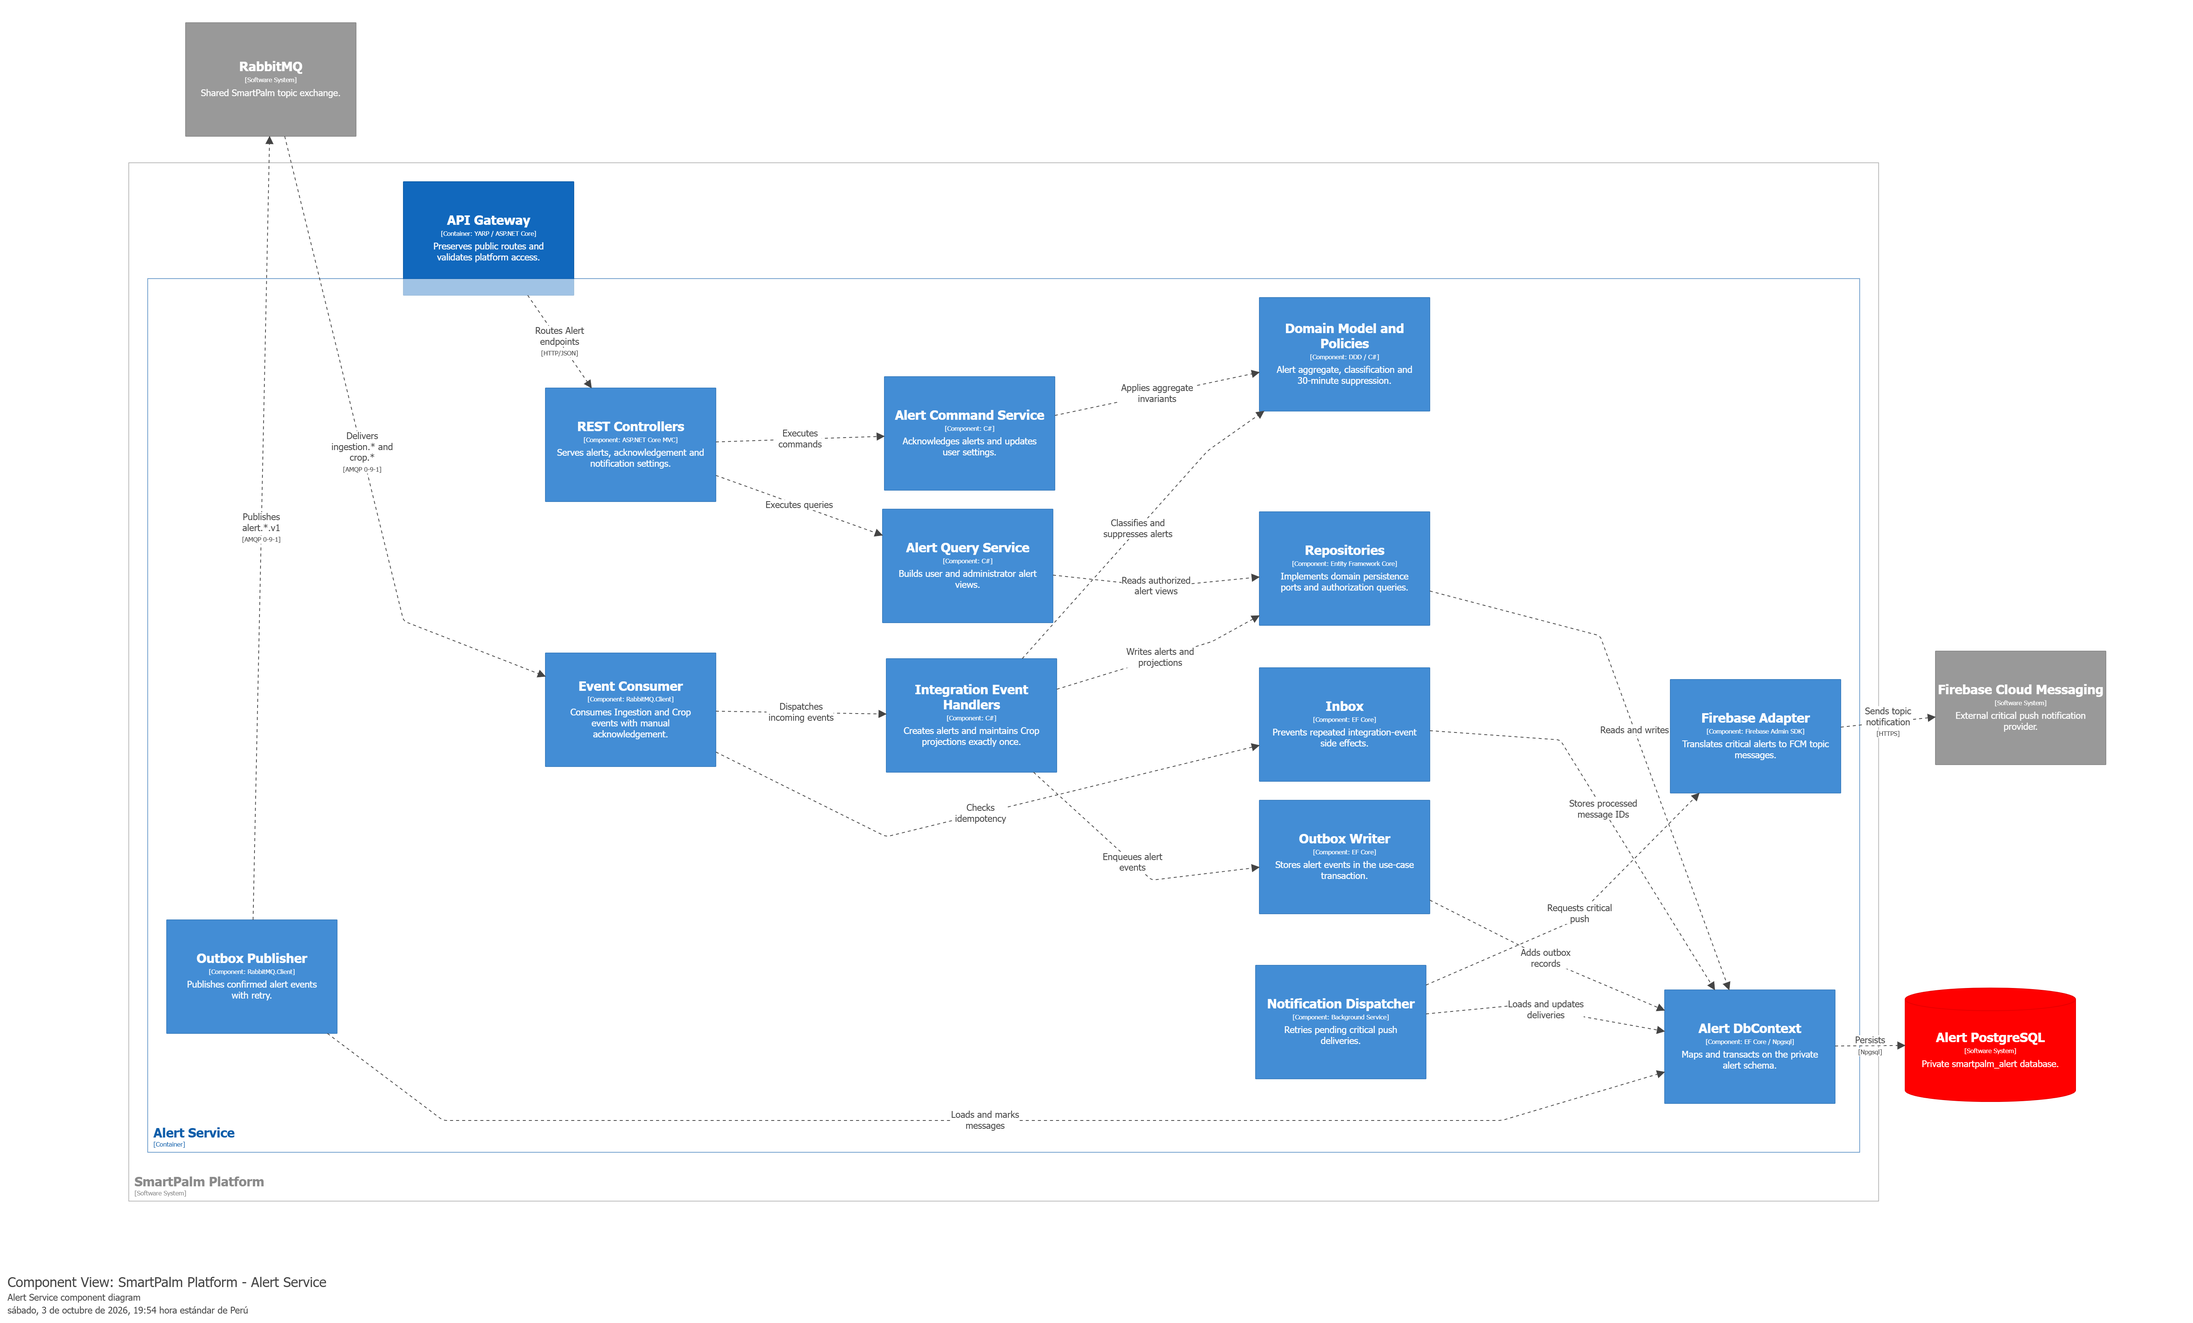
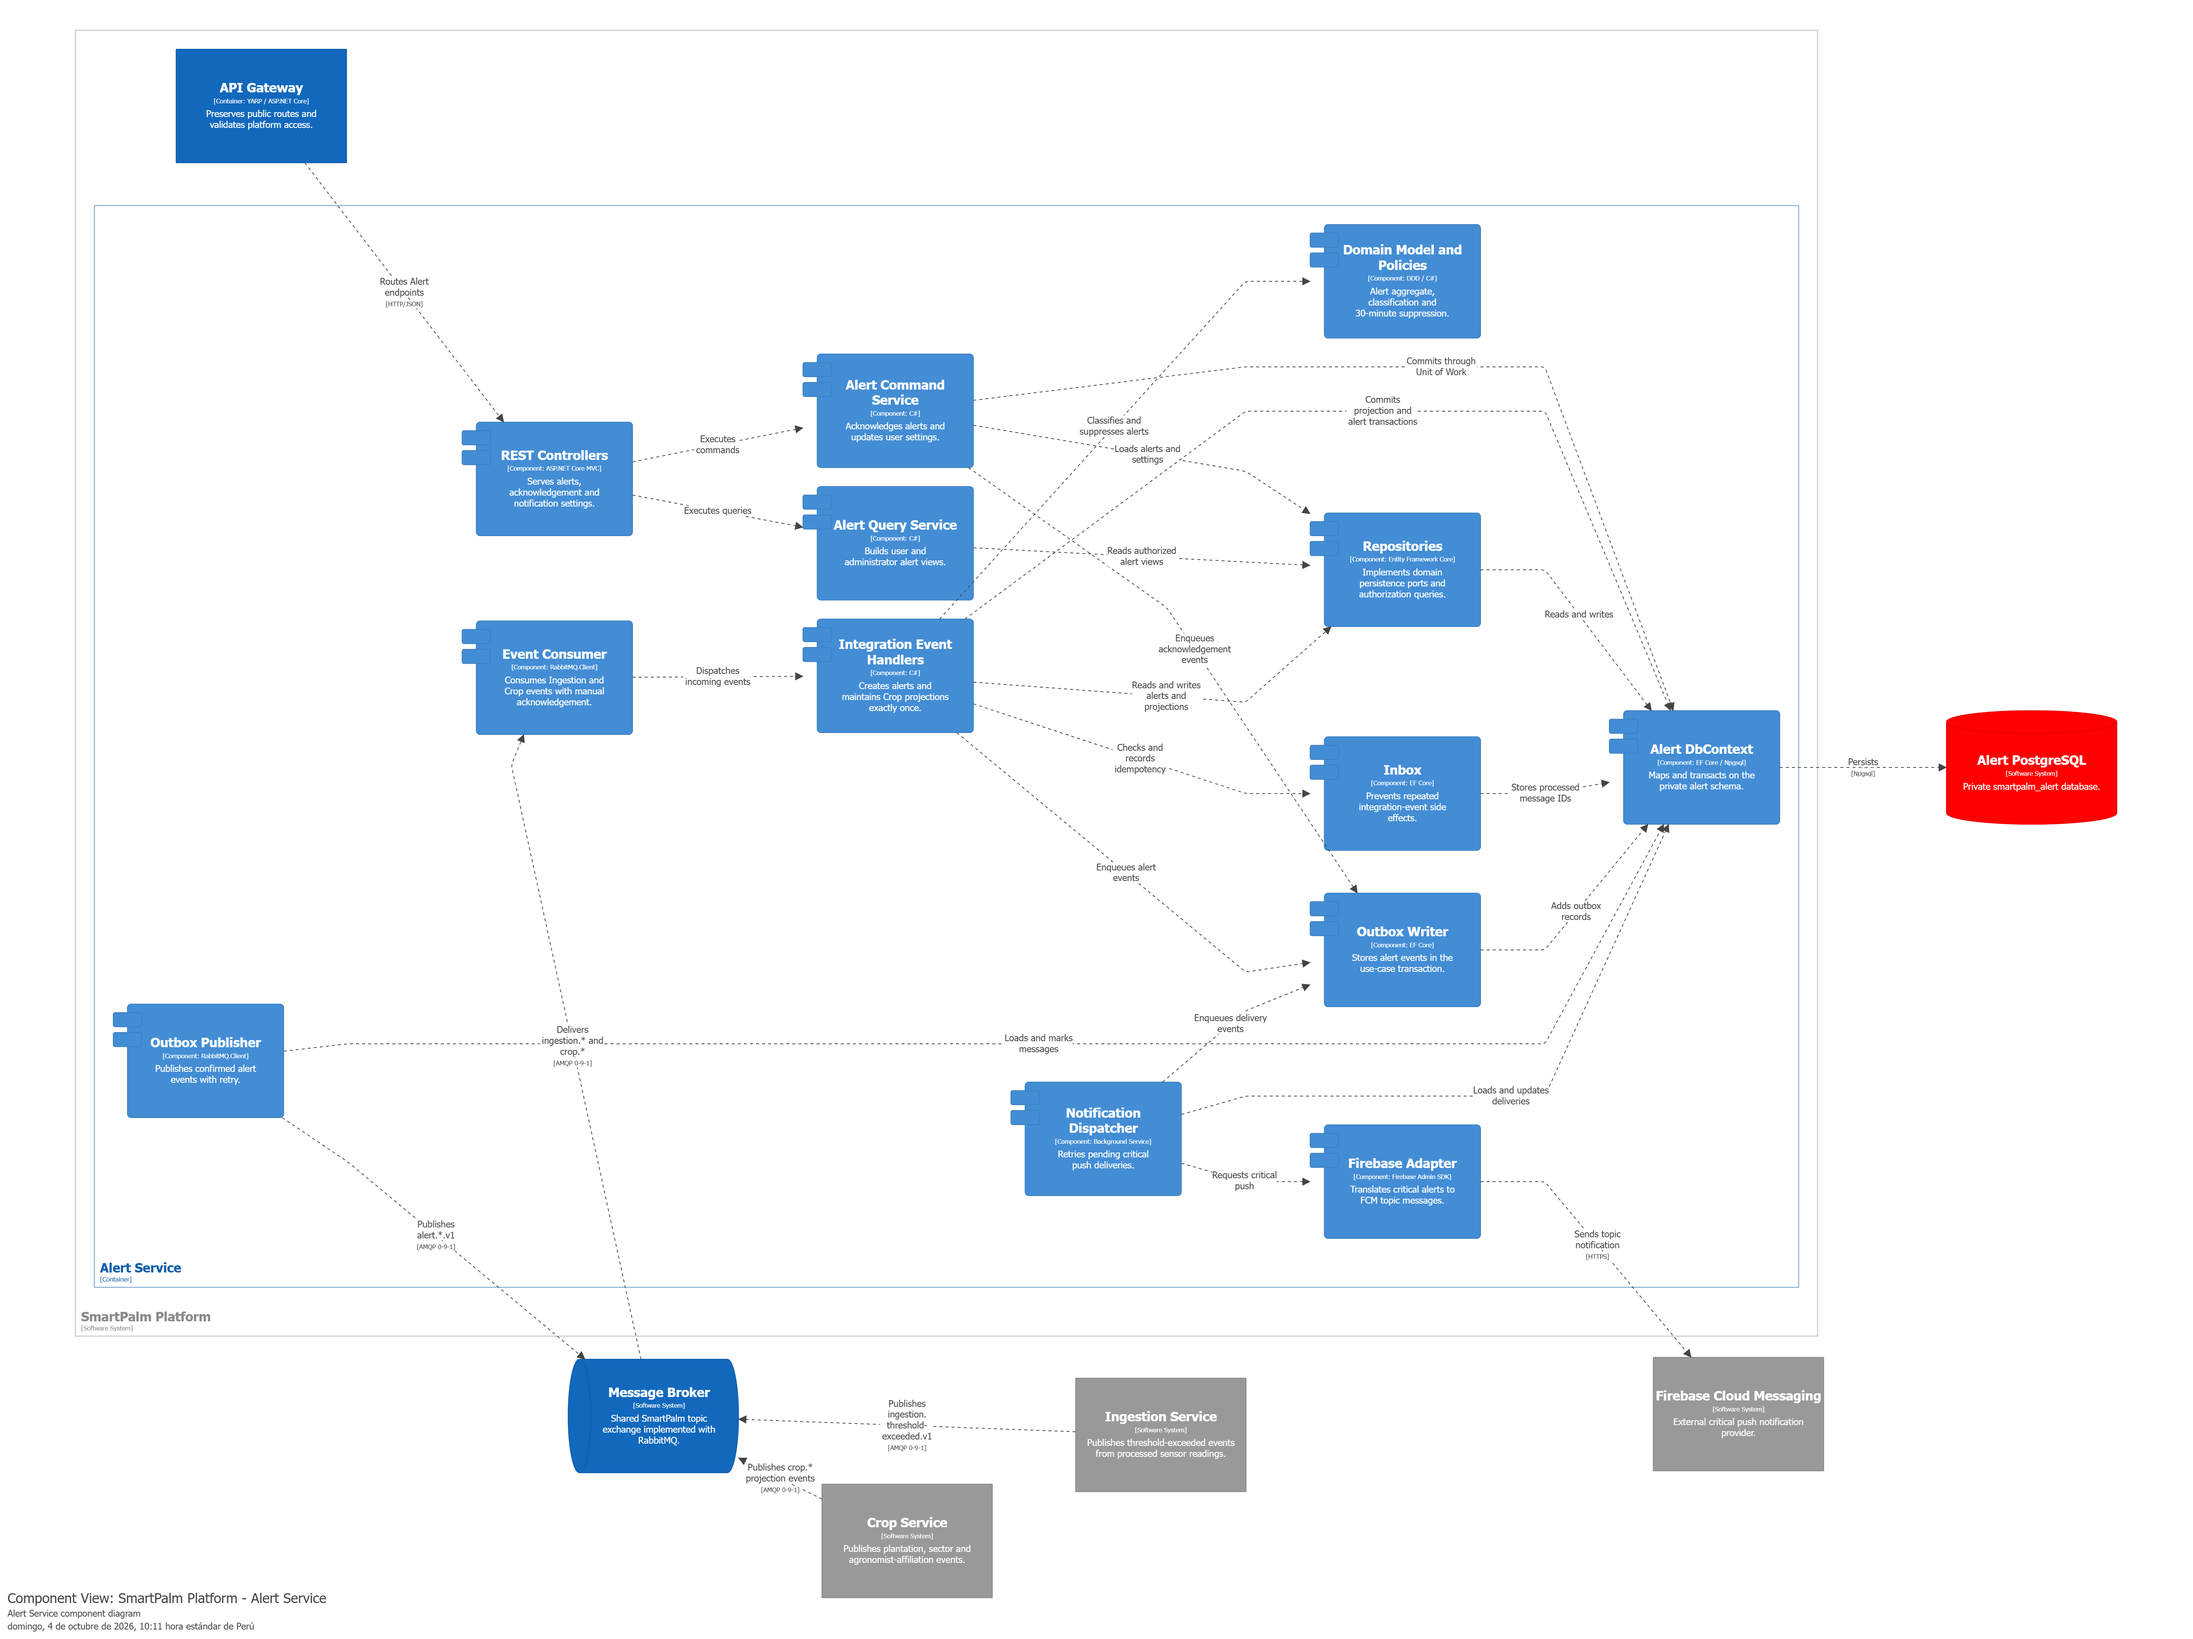
docs(53): add component diagram

diff --git a/50-chapter-5-tactical-software-design/53-5-bounded-context-alert-notification.md b/50-chapter-5-tactical-software-design/53-5-bounded-context-alert-notification.md
@@ -1,13 +1,24 @@
-
 ## 5.3.5. Bounded Context Software Architecture Component Level Diagrams
 
-![bounded-context-alert-notification-components-diagram](../assets/chapter5/53-bc-alert-notification/AlertServiceComponents.png) descompone Gateway, controllers, command/query services, handlers, políticas de dominio, repositorios, Inbox/Outbox, dispatcher, PostgreSQL, RabbitMQ y Firebase. El DSL muestra que Firebase es una dependencia externa y que el flujo entrante principal proviene de Ingestion.
+Aqui se presenta el diagrama C4 de componentes del container AlertService. Se lee de izquierda a derecha: el API Gateway enruta solicitudes HTTP hacia los controllers; estos delegan mutaciones a `AlertCommandService` y lecturas a `AlertQueryService`. Los comandos consultan repositorios, confirman cambios mediante `AlertDbContext` como Unit of Work y escriben eventos de reconocimiento en Outbox.
+
+En paralelo, IngestionService y CropService publican sus eventos hacia el **Message Broker** implementado con RabbitMQ. `IntegrationEventConsumer` los entrega a `IntegrationEventHandlers`, que ejecuta la comprobación Inbox dentro de su transacción, aplica las políticas de clasificación y duplicidad, mantiene proyecciones y encola eventos salientes. `OutboxPublisher` publica eventos `alert.*.v1`; `NotificationDispatcher` recupera entregas pendientes, registra sus cambios y solicita el envío al adaptador Firebase. PostgreSQL es exclusivamente propiedad de AlertService y Firebase permanece como sistema externo.
+
+**Comunicación externa.** Las flechas IngestionService → Message Broker → AlertService y CropService → Message Broker → AlertService expresan mensajería asíncrona; no representan llamadas HTTP directas ni acceso a las bases de datos de esos bounded contexts. La forma de cilindro identifica el broker compartido, no una base de datos de AlertService.
+
+![alert-notification-component-c4](../assets/chapter5/53-bc-alert-notification/AlertServiceComponents.png)
+
+| Componente | Responsabilidad principal |
+|---|---|
+| REST Controllers | Traducir HTTP y JWT en commands y queries. |
+| Alert Command/Query Services | Coordinar reconocimientos, settings y vistas autorizadas. |
+| Integration Event Handlers | Procesar eventos de Ingestion/Crop de forma idempotente. |
+| Inbox / Outbox | Evitar reprocesamiento y garantizar publicación confiable. |
+| Notification Dispatcher / Firebase Adapter | Entregar alertas críticas por FCM y registrar resultados. |
 
 ## 5.3.6. Bounded Context Software Architecture Code Level Diagrams
 
 ### 5.3.6.1. Bounded Context Domain Layer Class Diagrams
 
 
-
 ### 5.3.6.2. Bounded Context Database Design Diagram
-
